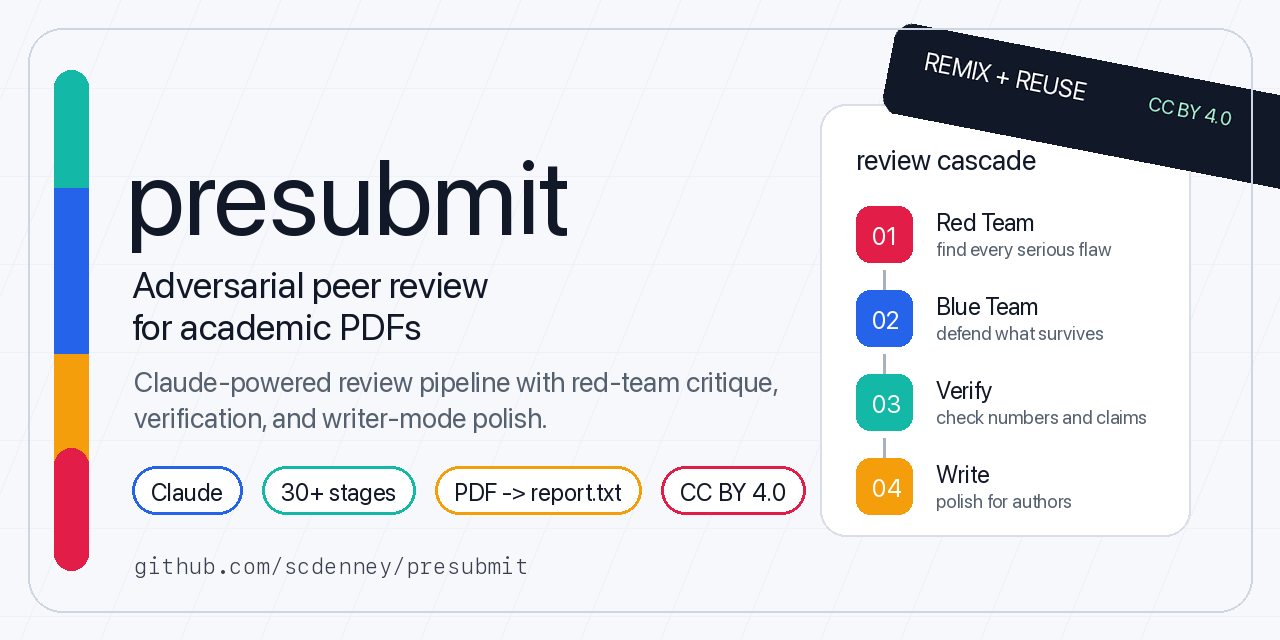
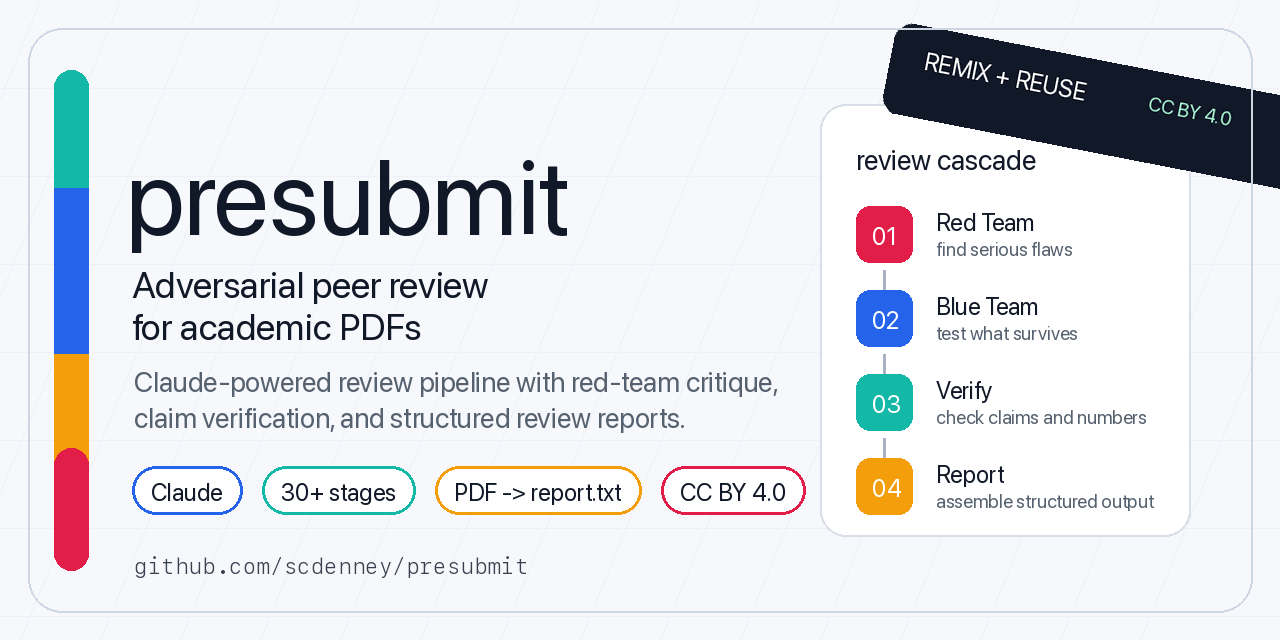
Clarify repository description

diff --git a/src/presubmit/cli.py b/src/presubmit/cli.py
@@ -17,7 +17,7 @@ _SUPPORTED_INPUT_EXTS = (".pdf", ".md", ".markdown", ".txt", ".tex")
 def build_parser() -> argparse.ArgumentParser:
     parser = argparse.ArgumentParser(
         prog="presubmit",
-        description="Adversarial peer review for academic papers, powered by Anthropic Claude.",
+        description="Claude-powered adversarial peer review for academic PDFs.",
     )
     parser.add_argument(
         "paper",

diff --git a/README.md b/README.md
@@ -1,6 +1,6 @@
 # presubmit
 
-**Adversarial peer review for academic PDFs, powered by Anthropic Claude.**
+**Claude-powered adversarial peer review for academic PDFs: red-team critique, claim verification, and structured review reports.**
 
 A derivative of [`reviewer2`](https://github.com/isitcredible/reviewer2) (Apache-2.0, © The Catalogue of Errors Ltd) with the LLM client layer rewritten to call Claude instead of Gemini. All prompts, pipeline structure, and non-LLM tooling (PDF merge, code ingestion, Mathpix math OCR) are ported largely verbatim from upstream; only the API client and model routing are new.
 
